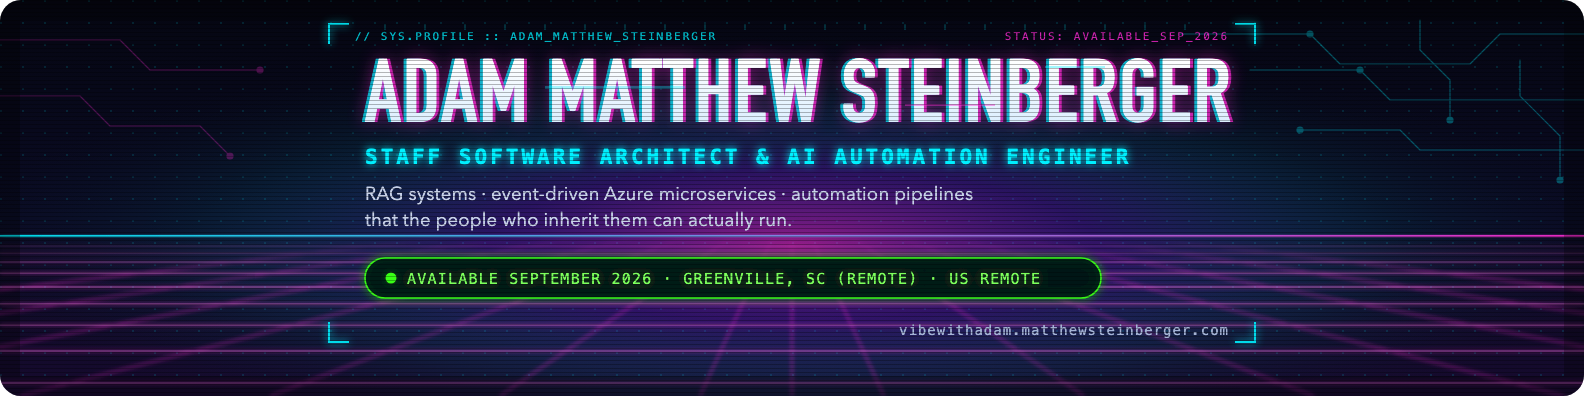
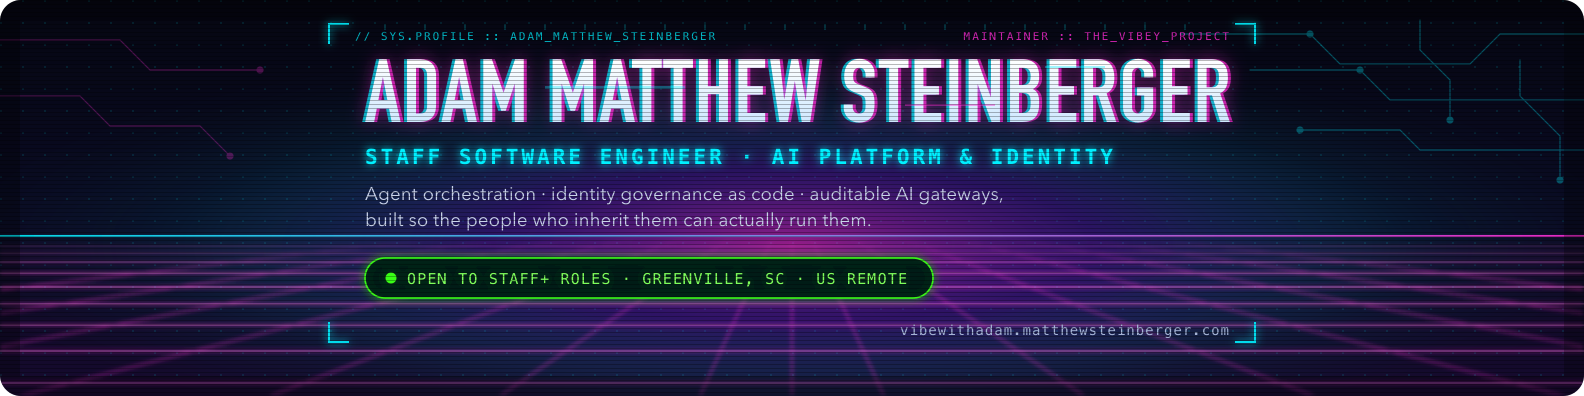
docs(readme): lead with vibey for contributors; Staff-level positioning
Rewrites the profile README around two readers: open-source developers
first, hiring reviewers second.

- Fix nine dead open-source links. The *loop runners, vibey-gh,
  vibey-skills and vibey-bootstrap now live in the-vibey-project/vibey,
  and the only installable PyPI package is vibey-engine.
- Add a four-step contribute path: Discussions, issues, CONTRIBUTING,
  then a PR against develop.
- Retitle to Staff Software Engineer (AI platform, identity, agent
  orchestration) to match the current résumé; bold the outcome of each
  production case study.
- Drop the stale "Available from September 2026" line, the employment-
  type line, the off-topic "Also comfortable with" list, and counts that
  go stale.
- Regenerate both banners with date-free copy.
- Ignore .DS_Store and .qwenloop/.

Made-With: Made with ❤ by [Vibey](https://the-vibey-project.github.io/vibey/), Developed by [Adam Matthew Steinberger](https://vibewithadam.matthewsteinberger.com/) ([@adammatthewsteinberger](https://github.com/adammatthewsteinberger/)).

diff --git a/README.md b/README.md
@@ -1,64 +1,78 @@
 <picture>
   <source media="(prefers-color-scheme: dark)" srcset="assets/banner-dark.png">
-  <img src="assets/banner-light.png" width="100%" alt="Adam Matthew Steinberger — Staff Software Architect & AI Automation Engineer. Available from September 2026, Greenville, SC (remote) / US remote.">
+  <img src="assets/banner-light.png" width="100%" alt="Adam Matthew Steinberger — Staff Software Engineer, AI platform and identity. Maintainer of The Vibey Project. Open to Staff+ roles, Greenville, SC or US remote.">
 </picture>
 
 # Adam Matthew Steinberger
 
-**Staff Software Architect & AI Automation Engineer** — I build AI systems that actually work inside enterprise environments: production-grade platforms that handle real data, real security requirements, and real organizational complexity. Not just demos.
+**Staff Software Engineer — AI platforms, identity, and agent orchestration.** I build the infrastructure that lets AI run inside organizations that have to answer for it: secretless identity, policy-enforced model gateways, and audit trails that hold up to review. I also maintain **[vibey](https://github.com/the-vibey-project/vibey)**, an MIT-licensed conductor that carries a software change from spec to reviewed pull request across a pool of AI coding agents, and loses nothing when one of them fails.
 
-[![Available from September 2026](https://img.shields.io/badge/Available-from%20September%202026-1a7f37?style=flat-square)](https://vibewithadam.matthewsteinberger.com/hire-me) [![Résumé (PDF)](https://img.shields.io/badge/R%C3%A9sum%C3%A9-PDF-0969da?style=flat-square)](https://github.com/adammatthewsteinberger/resume/raw/main/adam-steinberger-resume.pdf) [![LinkedIn](https://img.shields.io/badge/LinkedIn-adammatthewsteinberger-0a66c2?style=flat-square&logo=linkedin&logoColor=white)](https://www.linkedin.com/in/adammatthewsteinberger/) [![Join me](https://img.shields.io/badge/Join%20me-contribute-6f42c1?style=flat-square)](https://vibewithadam.matthewsteinberger.com/join-me)
+[![pip install vibey-engine](https://img.shields.io/pypi/v/vibey-engine?style=flat-square&label=pip%20install%20vibey-engine&color=6f42c1)](https://pypi.org/project/vibey-engine/) [![Research paper](https://img.shields.io/badge/paper-HTML%20%C2%B7%20PDF-0a7ea4?style=flat-square)](https://the-vibey-project.github.io/vibey/main/paper/) [![Open to Staff+ roles](https://img.shields.io/badge/open%20to-Staff%2B%20roles-1a7f37?style=flat-square)](https://vibewithadam.matthewsteinberger.com/hire-me) [![Résumé (PDF)](https://img.shields.io/badge/R%C3%A9sum%C3%A9-PDF-0969da?style=flat-square)](https://github.com/adammatthewsteinberger/resume/raw/main/adam-steinberger-resume.pdf) [![LinkedIn](https://img.shields.io/badge/LinkedIn-adammatthewsteinberger-0a66c2?style=flat-square&logo=linkedin&logoColor=white)](https://www.linkedin.com/in/adammatthewsteinberger/)
 
-Based in Greenville, SC. Looking for **Staff Software Architect · AI Automation Engineer · Staff/Principal AI Engineer · Solutions Architect · Platform/Automation Engineer** roles — Greenville-remote or US-remote, W2 preferred, contract-to-hire OK.
+Greenville, South Carolina · US remote · [adam@matthewsteinberger.com](mailto:adam@matthewsteinberger.com)
 
-**→ [Everything a hiring manager needs](https://vibewithadam.matthewsteinberger.com/hire-me)** · [Email me](mailto:adam@matthewsteinberger.com) · [Ask my résumé](https://vibewithadam.matthewsteinberger.com/) (a Claude RAG widget I built)
+## vibey: delivery that survives the agent
 
-## What I ship
+You have probably used an AI coding agent and then babysat it: re-prompting when it lost the thread, re-explaining everything after a crash, watching a run die at 2 a.m. because one vendor's credits ran out. The agent was autonomous. The delivery was you.
 
-Proof, not promises. Every number below is from a real engagement; client identities stay out of it.
+vibey is the layer that does the babysitting. It interviews you until the spec is sharp, builds unattended across several engines, brings you back only for the decisions that are yours, and survives crashes and credit exhaustion without dropping an open question.
 
-- **[AI Governance Gateway](https://vibewithadam.matthewsteinberger.com/work/ai-governance-gateway)** — sole architect. Five model vendors (Azure AI, Anthropic, OpenAI/Codex, Cursor, Grok, Gemini) behind one policy-enforced, OpenAI-compatible API: per-project USD spend caps, multi-unit rate limiting, HMAC-signed hash-chained audit trail, no API keys in the path. Three product teams migrated onto it; their credentials retired.
-- **[AI Payroll Processor](https://vibewithadam.matthewsteinberger.com/work/enterprise-ai-payroll-processor)** — co-lead. 20 microservices, four human-approved phases, 585 test modules, Terraform/Helm/GitOps on private AKS. Architecture production-ready at day 45; a junior dev trained in parallel now owns it.
-- **[Identity Governance as Code](https://vibewithadam.matthewsteinberger.com/work/identity-governance-as-code)** — sole author. Two control planes reconciling tenant state from Git: a kopf operator with fully secretless multi-tenant auth and LLM-drafted PRs, and an IdP governance platform managing 40 resource kinds via six addressing patterns, human-gated destructive drift, point-in-time reversion.
-- **[Multi-System Ticket Relay](https://vibewithadam.matthewsteinberger.com/work/multi-system-ticket-relay)** — sole author. N-way sync with no privileged hub: version vectors, echo suppression, a conflict engine that fails to manual hold. 653 tests, 93% coverage, import-linter-enforced pure domain, property/mutation/chaos-tested convergence.
-- **[Technical Report Generation Platform](https://vibewithadam.matthewsteinberger.com/work/ai-report-generator-email-intake)** — lead. Instrument data → standards-aware deliverables: event-driven ingestion, multi-vendor parsers, deterministic analysis + LLM review, SAML 2.0 SSO, deploys that prove they rolled out.
-- **[Self-Hosted RAG Chatbot](https://vibewithadam.matthewsteinberger.com/work/self-hosted-rag-chatbot)** — Mistral-7B, FAISS, vLLM, Docker. Zero external dependencies, shipped in 30 days.
-- **[GodFocus Push Notifications](https://vibewithadam.matthewsteinberger.com/work/godfocus-push-notifications)** — TDD Web Push system. 159/159 tests, 85.84% coverage, 5 billable hours.
+```bash
+pip install vibey-engine   # Python 3.12+, PostgreSQL 14+, macOS or Linux
+```
 
-Underneath: secretless DevSecOps (OIDC workload identity across 20 CI workflows in 9 repos; SAST, SCA, IaC scanning, SBOM, keyless signing, policy admission), five formal architecture document sets, identity-governance advisory for a SOX-regulated enterprise, and the *Security-First Scrum* framework.
+- **Nothing is lost when an agent dies.** Every decision, finding and handoff is a row in an append-only PostgreSQL ledger, and workers claim jobs under `FOR UPDATE SKIP LOCKED` leases. In the chaos test, 8 workers ran 500 jobs with 20% killed mid-job. None were lost and none ran twice.
+- **Handoffs are checked, not trusted.** Work moving from one engine to another must pass a model-free no-loss check, or it retries, escalates, or parks for a person.
+- **A human decision is a record, not a blocked terminal.** Approval gates are rows in the ledger and parked jobs, so nothing sits waiting on stdin.
+- **Five engines, one contract.** Claude Code, OpenAI Codex, Cursor Agent, Google Antigravity, and local open-weight models. When local engines are enabled, they go first.
 
-All 17 case studies → **[/work](https://vibewithadam.matthewsteinberger.com/work)**
+**Read the design before the code:** [research paper](https://the-vibey-project.github.io/vibey/main/paper/) ([PDF](https://the-vibey-project.github.io/vibey/main/paper.pdf)) · [documentation book](https://the-vibey-project.github.io/vibey/main/) ([PDF](https://the-vibey-project.github.io/vibey/main/book.pdf)) · [architecture decisions](https://github.com/the-vibey-project/vibey/tree/develop/docs/architecture/decisions)
 
-## Open source — MIT, on PyPI
+| One install, five components | What it does |
+|---|---|
+| [Conductor](https://github.com/the-vibey-project/vibey/tree/develop/src/vibey) | The six-phase delivery machine: design, build, review, and opt-in deployment. CLI and TUI. |
+| [Engine runners](https://github.com/the-vibey-project/vibey/tree/develop/src/vibey_runners) | `claudeloop`, `codexloop`, `cursorloop`, `agyloop`, and the local runner. Each one tells an exhausted rate-limit window apart from exhausted credits and resumes across usage windows. |
+| [`vibey-gh`](https://github.com/the-vibey-project/vibey/tree/develop/src/vibey_tools/gh) | Release automation for any GitHub repository: provenance, exact-head AI review, a merge train, and branch promotion. This profile repo runs it. |
+| [`vibey-skills`](https://github.com/the-vibey-project/vibey/tree/develop/src/vibey_tools/skills) | A Claude Code plugin marketplace of Agent Skills in which every claim cites its source. |
+| [`vibey-bootstrap`](https://github.com/the-vibey-project/vibey/tree/develop/src/vibey_tools/bootstrap) | Azure, telemetry, configuration and Service Bus foundations, solved once. |
 
-| Package | What it is | Links |
-|---|---|---|
-| **claudeloop** | Onion-architected autonomous Claude Code session runner. Never blocks on a human; tells an exhausted rate-limit window apart from exhausted credits and resumes across usage windows. | [PyPI](https://pypi.org/project/claudeloop/) · [repo](https://github.com/adammatthewsteinberger/claudeloop) |
-| **codexloop · cursorloop · agyloop** | The same runner, three more engines — OpenAI Codex, Cursor Agent, Google Antigravity/Gemini. Same contract, different vendor. | [codexloop](https://github.com/adammatthewsteinberger/codexloop) · [cursorloop](https://github.com/adammatthewsteinberger/cursorloop) · [agyloop](https://github.com/adammatthewsteinberger/agyloop) |
-| **qwenloop** | The same runner, fully local: Qwen 2.5 Coder 14B through llama.cpp by default or vLLM on NVIDIA. Never downloads weights on its own. | [PyPI](https://pypi.org/project/qwenloop/) · [repo](https://github.com/adammatthewsteinberger/qwenloop) |
-| **vibey** | Queue-based, six-phase conductor for autonomous software delivery on top of the `*loop` runners: spec interview → design pass → build → review → deploy. PostgreSQL-backed. | [PyPI](https://pypi.org/project/vibey/) · [repo](https://github.com/adammatthewsteinberger/vibey) |
-| **vibey-gh** | Release automation for a GitHub repository, stdlib only: provenance fingerprints, derived version bumps, exact-head AI review and repair, a merge train, dual-channel releases, docs maintenance. | [PyPI](https://pypi.org/project/vibey-gh/) · [repo](https://github.com/adammatthewsteinberger/vibey-gh) |
-| **vibey-bootstrap** | Formerly azure-bootstrap. The Azure Functions cross-cutting layer, solved once — config ↔ App Insights bootstrap cycle, structured logging, Service Bus plumbing, scaffold CLI. Used across 17+ Azure Functions repos. | [PyPI](https://pypi.org/project/vibey-bootstrap/) · [repo](https://github.com/adammatthewsteinberger/vibey-bootstrap) |
-| **vibey-skills** | Formerly vibe-engineering-skills. Claude Code plugin marketplace: 18 plugins, 71 Agent Skills across security, cloud, DevSecOps, AI/ML, architecture, QA. Every claim cites its source. | [PyPI](https://pypi.org/project/vibey-skills/) · [repo](https://github.com/adammatthewsteinberger/vibey-skills) |
-| **clippy-pet** | An animated paperclip pet for ChatGPT desktop and Codex CLI. Because not everything has to be serious. | [repo](https://github.com/adammatthewsteinberger/clippy-pet) |
+### Contribute
 
-More → **[/open-source](https://vibewithadam.matthewsteinberger.com/open-source)**
+The project is small enough that one good pull request gets noticed. The CI gates handle formatting, coverage and layering, so review can stay on your design.
 
-## Contribute
+1. **Say hello or ask anything** in [Discussions](https://github.com/the-vibey-project/vibey/discussions). No question is too basic.
+2. **Pick something from the [open issues](https://github.com/the-vibey-project/vibey/issues).** Fedora support, multi-project support and new skills are all open now. Comment before you start anything large, so we can agree on the shape first.
+3. **Set up with the [contributing guide](https://github.com/the-vibey-project/vibey/blob/develop/CONTRIBUTING.md):** `uv sync`, two hook installs, and a local PostgreSQL. CI runs the same gates you run locally.
+4. **Open a pull request against `develop`.** Use Conventional Commits; the provenance hook adds the trailer for you.
 
-I primarily develop free and open-source software, and I'm always open for a connection or a coffee — Greenville-remote or US-remote volunteers are welcome and encouraged to get involved at any time. Everything a developer needs to get started (a free quickstart for the whole stack, how my own site is built with it, and where to begin) is at **[/join-me](https://vibewithadam.matthewsteinberger.com/join-me)** · [adam@matthewsteinberger.com](mailto:adam@matthewsteinberger.com)
+Rather talk first? Email me or start at **[/join-me](https://vibewithadam.matthewsteinberger.com/join-me)**. Contributors in Greenville and anywhere in the US are welcome, and I'm glad to pair on a first change.
+
+Also mine, and deliberately not serious: **[clippy-pet](https://github.com/adammatthewsteinberger/clippy-pet)**, an animated paperclip for the ChatGPT desktop app and Codex CLI.
+
+## Production work
+
+Built as a senior engineer at a consulting firm and as an independent consultant. Client names are left out; each numbered claim comes from a real engagement.
+
+- **[AI governance gateway](https://vibewithadam.matthewsteinberger.com/work/ai-governance-gateway)** (sole architect). One OpenAI-compatible, policy-enforced API in front of Azure AI, Anthropic, OpenAI, Cursor, Grok and Gemini. It enforces per-project allowlists, multi-unit rate limits, per-call USD cost attribution with spend caps, and an HMAC-signed, hash-chained audit trail. Callers authenticate with workload identity, so no API key sits in the request path. **Three product teams migrated onto it and retired their app-held credentials.**
+- **[Identity governance as code](https://vibewithadam.matthewsteinberger.com/work/identity-governance-as-code)** (sole author of two control planes). The first is a kopf operator that reconciles directory state from Git with no stored tenant secrets, and has an LLM draft pull requests for judgment calls. The second is an IdP governance platform managing 40 resource kinds, where safe drift is remediated automatically and destructive drift waits for a person. **Together they replaced a low-code workflow with a versioned, idempotent sync API.**
+- **[AI payroll platform](https://vibewithadam.matthewsteinberger.com/work/enterprise-ai-payroll-processor)** (co-lead). 20 microservices across four human-approved phases, with the final submission modeled as irreversible. Terraform, Helm and GitOps on private AKS; 585 test modules. **The architecture was production-ready by day 45, and the junior developer trained alongside it now owns it.**
+- **[Multi-system ticket relay](https://vibewithadam.matthewsteinberger.com/work/multi-system-ticket-relay)** (sole author). N-way sync with no privileged hub: version vectors, echo suppression, and a conflict engine that fails safe to manual hold. 653 tests at 93% coverage.
+- **[Technical report platform](https://vibewithadam.matthewsteinberger.com/work/ai-report-generator-email-intake)** (lead). Turns instrument data into standards-aware client reports through deterministic analysis plus LLM review, with SAML 2.0 SSO and blocking data-quality gates. **It ended silent false-success deploys.**
+- **[Self-hosted RAG chatbot](https://vibewithadam.matthewsteinberger.com/work/self-hosted-rag-chatbot)**. Mistral-7B, FAISS and vLLM with zero external dependencies, shipped in 30 days.
+
+Underneath all of it: OIDC workload identity across 20 CI workflows in 9 repositories; SAST, SCA, IaC scanning, SBOMs, keyless signing and policy-as-code admission; and identity-governance advisory for a SOX-regulated enterprise of about 5,700 identities. **[All case studies →](https://vibewithadam.matthewsteinberger.com/work)**
+
+## How I work
+
+- **Write the decision down before the code.** Architecture decision records, STRIDE threat models and readiness assessments come first, so the reasoning survives the people who made it.
+- **Let the gates hold the line.** Branch-coverage floors, import-linter-enforced layers, signed releases and provenance checks in CI mean a rule is enforced rather than remembered.
+- **Close security findings before release.** Self-review on recent work caught an auth bypass, a path traversal, an SSRF, a timing-unsafe comparison and an over-scoped CI credential before any of them shipped.
+- **Train the person who inherits it.** A handoff counts as finished when someone else runs the system without me.
 
 ## Writing
 
-> *"The AI is a commodity. The knowledge is the competitive asset."*
-
-**[Novice to Navigator: Your Guide to AI Chatbots for Business](https://vibewithadam.matthewsteinberger.com/novice-to-navigator)** — plain-English, numerate, no hype. How RAG actually works, what makes chatbots succeed or fail, and how to decide whether your business is ready. The first edition's 33 chapters are free to read; the second edition is in development.
-
-- 📖 [Read the first edition free](https://vibewithadam.matthewsteinberger.com/novice-to-navigator)
-- ✅ [15-factor Chatbot Readiness Quiz](https://vibewithadam.matthewsteinberger.com/novice-to-navigator/readiness) — four pillars, ~30 minutes, before you sign a contract
-- 🔔 [Get notified when the second edition ships](https://eepurl.com/jiYXCQ)
-
-Also in development: *Engineering Influence* — see **[/books](https://vibewithadam.matthewsteinberger.com/books)**.
+- **[Ledger-Mediated Orchestration: Vendor-Independent Autonomous Software Delivery over a Pool of Coding Agents](https://the-vibey-project.github.io/vibey/main/paper/)**. The design paper behind vibey (not refereed). The repository's "Cite this repository" button gives the citation.
+- **[Novice to Navigator: Your Guide to AI Chatbots for Business](https://vibewithadam.matthewsteinberger.com/novice-to-navigator)**. A plain-English, numerate guide to RAG chatbots for decision-makers. The first edition is free to read online, and the [15-factor readiness quiz](https://vibewithadam.matthewsteinberger.com/novice-to-navigator/readiness) takes about 30 minutes.
 
 **Latest posts**
 <!-- BLOG-POST-LIST:START -->
@@ -68,42 +82,22 @@ Also in development: *Engineering Influence* — see **[/books](https://vibewith
 - [Astra Solved 10 Open Math Problems for $2,000. ChatGPT Hit 1 Billion Users. Neither Changes the Advice I Give Clients.](https://vibewithadam.matthewsteinberger.com/blog/astra-1-billion-users-and-why-the-knowledge-base-is-the-moat) — Aug 5, 2026
 <!-- BLOG-POST-LIST:END -->
 
-## How I work
-
-**Architecture before code. Juniors trained in parallel. Handoffs that hold.** I document as I build for the same reason a RAG pipeline cites its sources: an auditable trail beats a confident guess six months later. That's why the AI Payroll Processor transferred to a junior dev in 45 days instead of becoming someone's permanent second job.
-
-- **Depth on the details that matter** — I find the one row that contradicts the other nine hundred instead of averaging it away
-- **Onion Architecture and TDD by default** — 159/159 tests and 85.84% coverage on the GodFocus push system, in 5 billable hours
-- **Cross-cutting concerns solved once** — `vibey-bootstrap` is the config/logging/Service Bus layer factored out of 17+ Azure Functions repos
-- **Process engineering alongside the code** — Epics → Features → Stories decomposition, so the work stays legible to the people funding it
-
-More → [my story](https://vibewithadam.matthewsteinberger.com/story) · [hire me](https://vibewithadam.matthewsteinberger.com/hire-me)
-
 ## Now
 
-- Senior Azure & AI Development Engineer, **The Vizius Group**, Sep 2025 – Aug 2026. **Available from September 2026.**
-- Volunteer software architect for a nonprofit AI apologetics chat platform since Apr 2026 — the AI→human live-chat relay is written up at [/work/project-excite-relay](https://vibewithadam.matthewsteinberger.com/work/project-excite-relay).
-- Hiring for a business rather than an engineering team? The executive edition of my site states the problem first → [/for-executives](https://vibewithadam.matthewsteinberger.com/for-executives)
-- B.A. Computer Science, Skidmore College (2012) · Certified ScrumMaster (2021)
+- **Open to Staff+ software engineering roles** in AI platform, identity and access, agent infrastructure, and forward-deployed engineering. US remote or Greenville, SC. **[Everything a hiring manager needs →](https://vibewithadam.matthewsteinberger.com/hire-me)**
+- Maintaining **[The Vibey Project](https://github.com/the-vibey-project)**.
+- Volunteer software architect for a nonprofit AI chat platform. The AI-to-human live-chat relay is written up at [/work/project-excite-relay](https://vibewithadam.matthewsteinberger.com/work/project-excite-relay).
+- Previously Senior Azure and AI Development Engineer at The Vizius Group (Sep 2025 to Aug 2026). Over 13 years in production systems across insurance, fintech, healthcare and industrial testing.
+- B.A. Computer Science, Skidmore College · Certified ScrumMaster
 
 <details>
 <summary><strong>Stack at a glance</strong></summary>
 
-- **Languages:** Python · TypeScript/NestJS · C#/.NET · React/Next.js
-- **Azure:** Functions · Service Bus · App Configuration · Key Vault · Application Insights · AKS · Bicep
-- **Platform:** Docker · Kubernetes · Helm · GitOps · GitHub Actions · Azure DevOps · Bitbucket
-- **Data:** PostgreSQL/pgvector · MongoDB · Snowflake · Redis
-- **AI:** RAG · vLLM · Ollama · FAISS · LangChain · MCP · Claude · GPT · Gemini · Mistral · LoRA fine-tuning · Grafana/Prometheus for LLM observability
-- **Practice:** Onion Architecture · TDD · Scrum (CSM) · process engineering · Jira decomposition (Epics → Features → Stories)
-
-</details>
-
-<details>
-<summary><strong>Also comfortable with…</strong></summary>
-
-- Self-hosted services: WordPress, Listmonk/Postfix/OpenDKIM, Matrix/Element, Ghost, bare-metal Ubuntu
-- Privacy-first stacks and Big-Tech alternatives (Proton, GrapheneOS, System76, Synology)
-- Proof-of-Stake validator operations (ETH2/Rocketpool) and self-custody training
+- **Identity and access:** Microsoft Entra ID · Okta (core, IGA, Workflows) · SAML 2.0 · OIDC/OAuth 2.0 · workload identity federation · RBAC · governance as code
+- **Security and compliance:** secretless delivery · Semgrep · CodeQL · Trivy · Checkov · SBOM (Syft/CycloneDX) · Cosign keyless signing · Kyverno/OPA · STRIDE · SOC 2 readiness · OWASP LLM Top 10 · NIST AI RMF
+- **AI and LLM systems:** multi-vendor gateways · agent sandboxing and egress policy · multi-agent orchestration · MCP servers · RAG (pgvector, FAISS, Azure AI Search) · Claude · Azure OpenAI/Foundry · GPT · Gemini · vLLM · Ollama
+- **Platform:** Kubernetes (AKS, KEDA) · Terraform · Bicep · Helm · Flux/Argo CD · GitHub Actions · Service Bus · OpenTelemetry · PostgreSQL · Redis · AWS
+- **Languages:** Python (FastAPI, SQLAlchemy 2, Pydantic, kopf) · TypeScript/NestJS · Next.js/React · C#/.NET · Java Spring Boot · SQL · KQL · Bash
 
 </details>
 
@@ -113,4 +107,4 @@ More → [my story](https://vibewithadam.matthewsteinberger.com/story) · [hire 
 
 ---
 
-This profile is [CC BY 4.0](LICENSE) · the site behind it is open source: [adammatthewsteinberger/portfolio](https://github.com/adammatthewsteinberger/portfolio) (MIT code, CC BY 4.0 content) · [/join-me](https://vibewithadam.matthewsteinberger.com/join-me)
+This profile is [CC BY 4.0](LICENSE). The site behind it is open source too: [adammatthewsteinberger/portfolio](https://github.com/adammatthewsteinberger/portfolio) (MIT code, CC BY 4.0 content).
